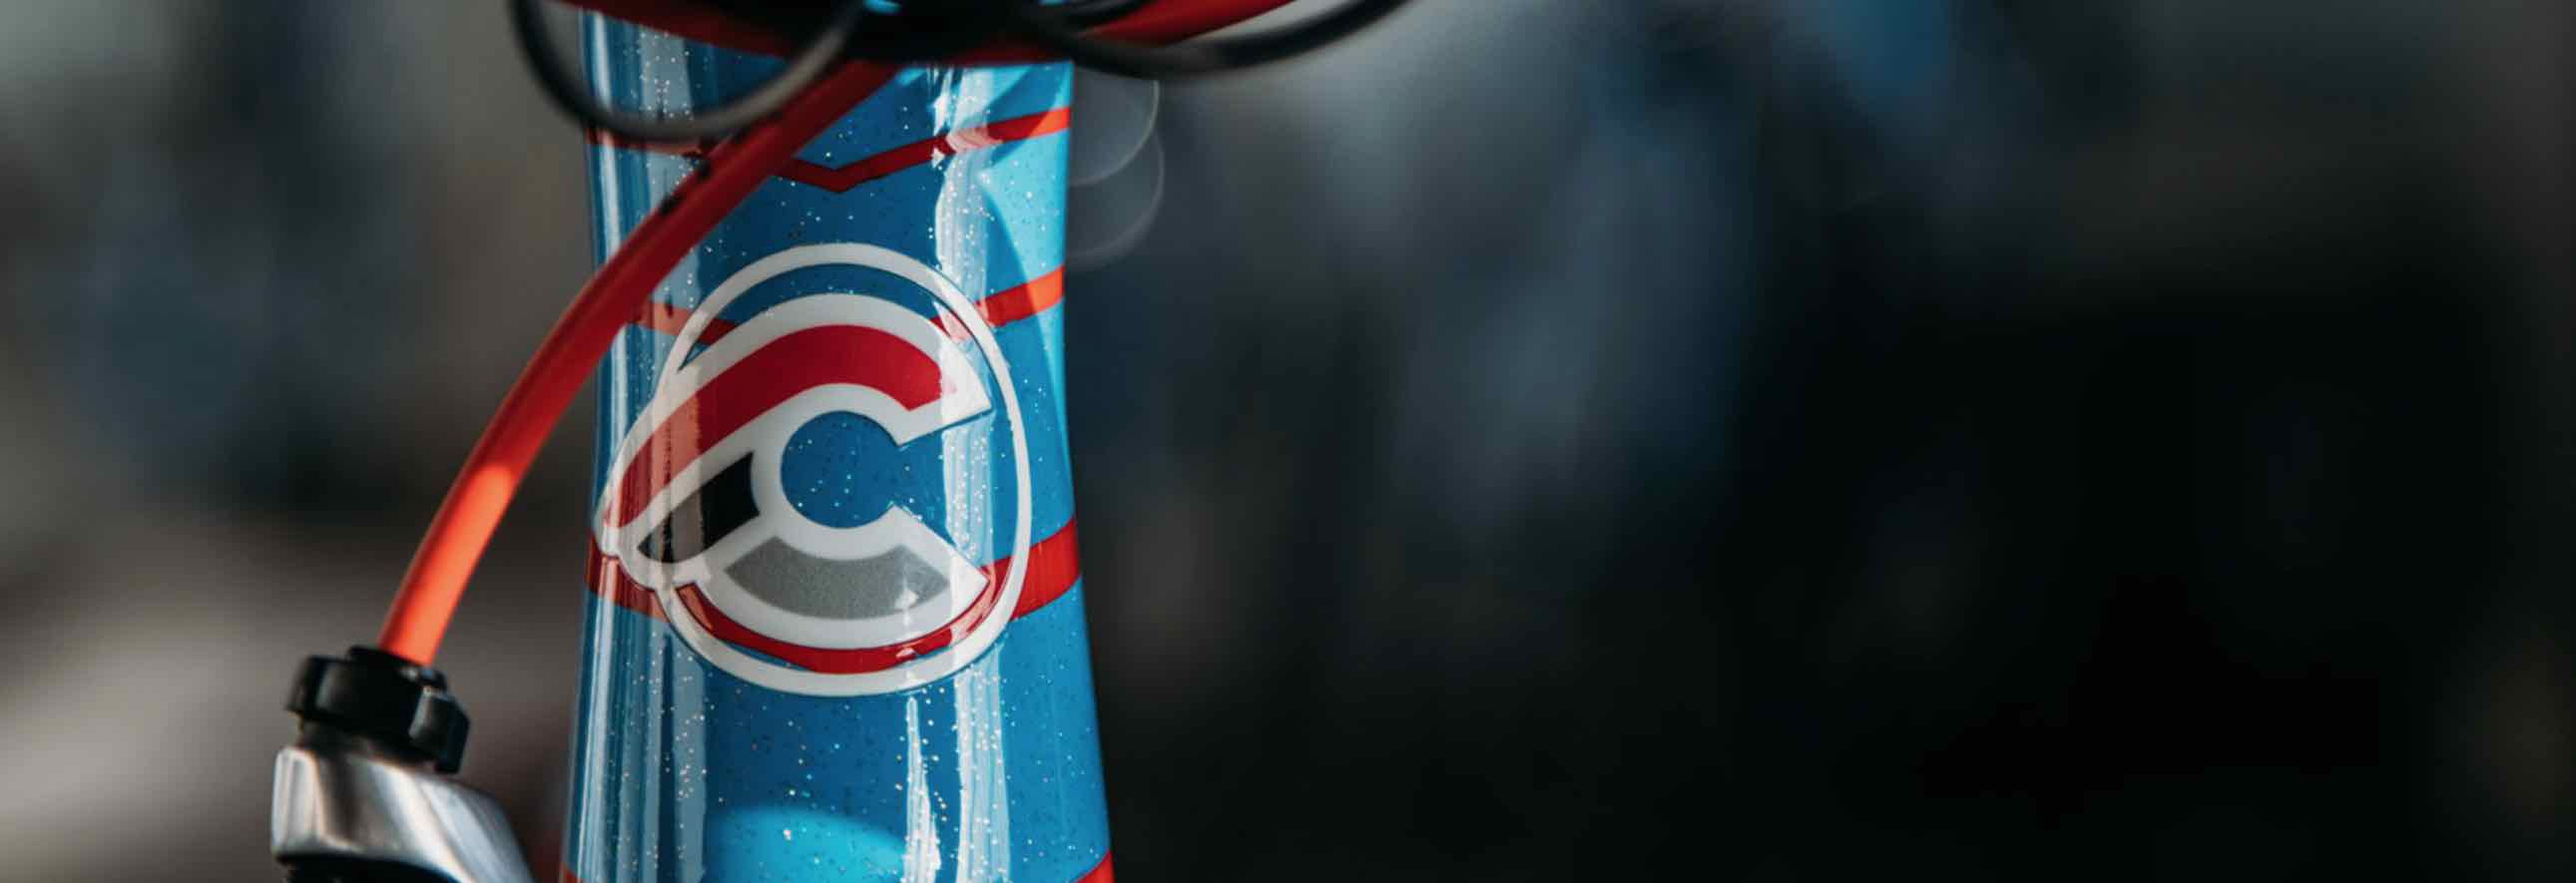
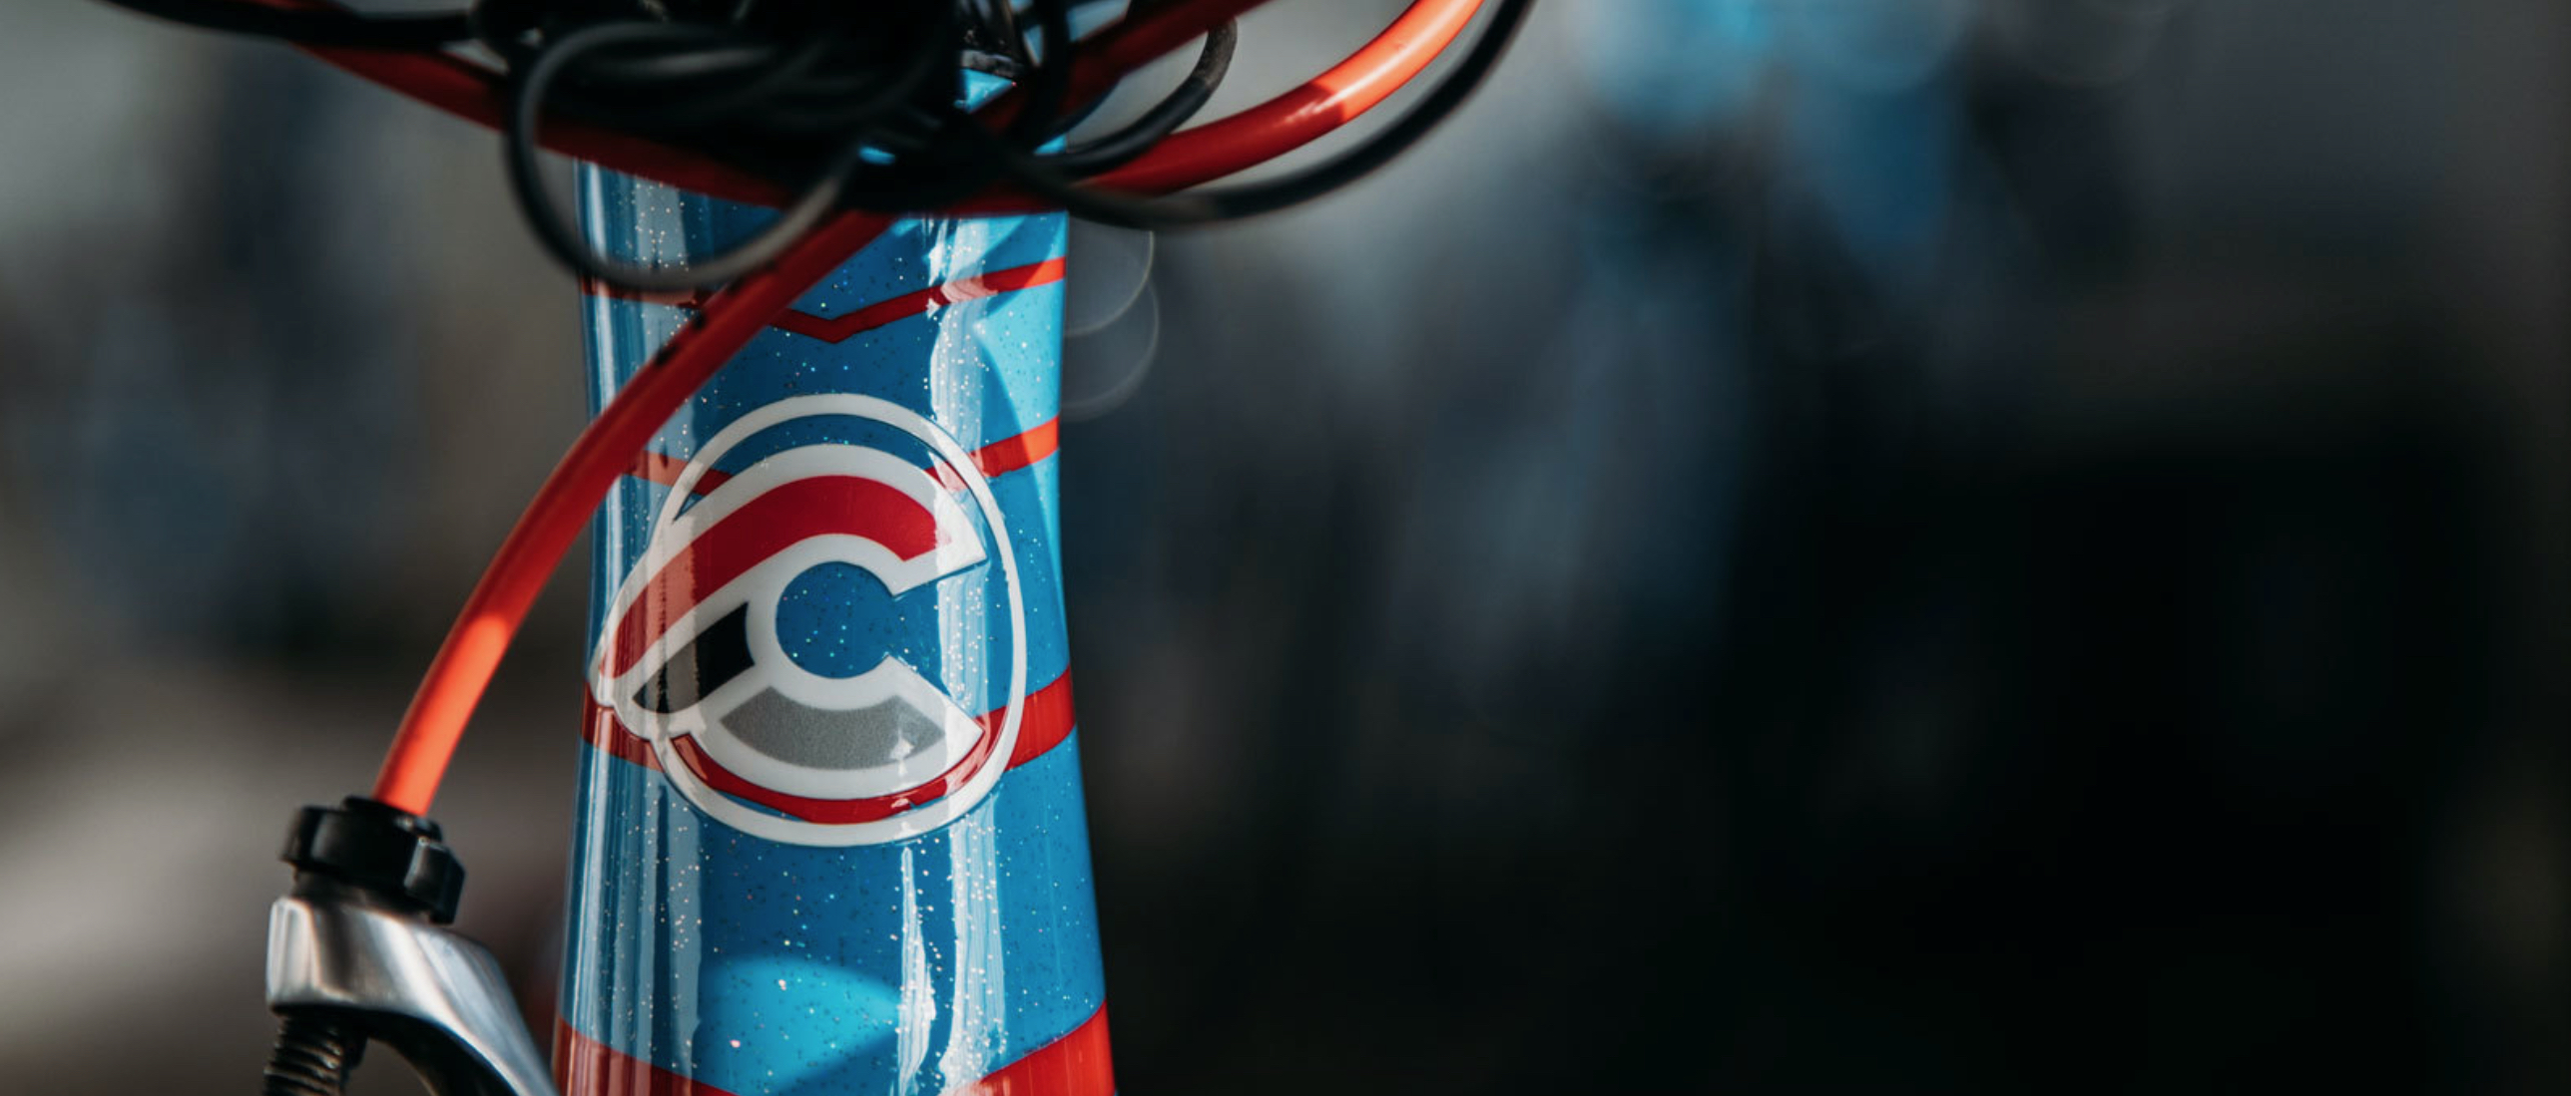
Landing Page Header is Finished

diff --git a/public/css/nav.css b/public/css/nav.css
@@ -1,91 +1,53 @@
 body {
-    font-family: 'Public Sans', sans-serif;
-    font-weight: 600;
+    font-family: 'Roboto', sans-serif;
+    font-weight: 400;
+    color: black;
 
 }
-/* TOP NAVBAR */
-#topNavbar {
-    height: 32px;
-    padding-left: 50px;
-    padding-right: 0;
-    background-color: black;
-    padding-top: 0;
-    padding-bottom: 0;
-}
-
-#cDivTop i {
-    margin-right: 11px;;
-}
-
-
-
-#cDivTop li {
-    height: 32px;
-    width: 150px;  
-    text-align: center;
-    padding-top: 2px;
- }
-
-#cDivTop a {
-    text-decoration: none;
-    color: white;
-    font-size: 10px;
-    letter-spacing: .5px;
-    height: 32px;  
-    text-transform: uppercase;
-}
-
-#handmadeId {
-    color: white;
-    font-size: 16px;
-    text-decoration: none;
-    font-weight: 200;
-}
-
-#divPadding {
-   height: 32px;
-}
-
-#findRetailer {
-    padding-right: 10px;
-    /* background-color: #5BAE4B; */
-    /* border-right: 2px solid black; */
-    /* border-left: px solid black;
-    border-right: 4px solid black; */
-    margin-right: 2.5px;
-  
- }
 
 
 .sign-in {
     background-color: #CF4747;
-   
-}
+ 
+} 
 
 
 /* MAIN NAVBAR */
-#brandIcon {
-    width: 150px;
-   
-}
 
-.navbar-brand {
-    
+#brandIcon {
+   width: 190px;
+   margin: px;
+   margin-top: -10px;
 }
 
 #mainNavbar {
     background-color: white;
-    padding-left: 23px;
-    padding-right: 50px;
+    padding-left: 75px;
+    padding-right: 75px;
     padding-top: 0;
     padding-bottom: 0;
-}
-
-#mainNavbar a {
+    text-transform: uppercase;
+    height: 76px;
     color: black;
 }
 
-#navbar .nav-item {
+#mainNavbar li {
+    height: 76px;
+}
+
+
+#mainNavbar a {
+    color: black;
+    align-items: center;
+    padding-top: 15px;
+}
+
+#mainNavbar .nav-link {
+    margin-left: 20px;
+    margin-right: 20px;
+}
+
+.navbarLinks .nav-item {
     font-size: 11.5px;
     letter-spacing: 1px;
     padding: 1.3em;
@@ -95,7 +57,64 @@ body {
 
 .icons-right li{
     padding: 1.1em;
+    margin: 0;
 }
+
+#bikes {
+    border-bottom: 3px solid #F54343;
+}
+
+#componenets {
+    border-bottom: 3px solid #00CA0F;
+}
+
+#apparel {
+    border-bottom: 3px solid #EBF54A;
+}
+
+#insideCinelli  {
+    border-bottom: 3px solid black;
+}
+
+/* #bikesButton {
+    margin-right: 50px;
+    margin-left: 200px;
+}
+
+#insideCinelli {
+    margin-left: 50px;
+    margin-right: 25px;
+} */
+
+.icons-right {
+    display: inline-block;
+   padding-top: 15px;
+}
+
+@media (max-width: 1250px) {
+    #insideCinelli {
+        margin-left: 0px;
+        margin-right: -25px;
+    }
+}
+
+@media (max-width: 1250px) {
+    #bikesButton {
+        margin-left: 50px;
+        margin-right: 0px;
+    }
+}
+
+@media (max-width: 1000px) {
+    .icons-right {
+        margin-left: -50px;
+        margin-right: 0px;
+        padding-left: -100px;
+        
+    }
+}
+
+
 
 /* DROPDOWN MENU */
 

diff --git a/public/css/mainLanding.css b/public/css/mainLanding.css
@@ -1,5 +1,57 @@
 body {
-    background-color: lightblue;
 
+}
+
+#headerImage {
+    position: relative;
+}
+
+#headerImage img {
+    width: 100%;
+    position: absolute;
+    z-index: -2;
+}
+
+#headerText {
+    margin-top: 300px;
+    color: white;
+    text-transform: uppercase;
     
+}
+
+#headerText h1 {
+    line-height: 50px;
+    font-size: 40px;
+    font-weight: 300;
+    width: 400px;
+    margin-bottom: 20px;
+    
+}
+
+.buttonMain {
+    
+    font-size: 0;
+}
+
+#shopNow {
+    background-color: #AE7825;
+    font-size: 14px;
+    border: none;
+    padding: 20px;
+    text-transform: uppercase;
+    color: white;
+    padding-left: 40px;
+    padding-right: 40px;
+}
+
+#learnMore {
+    background-color: #7486CB;
+    font-size: 14px;
+    border: none;
+    padding: 20px;
+    text-transform: uppercase;
+    color: white;
+    box-shadow: 10px 5px 5px black;
+    padding-left: 40px;
+    padding-right: 40px;
 }

diff --git a/public/scripts/navbar.js b/public/scripts/navbar.js
@@ -4,7 +4,7 @@
 //      // BIKES HOVER
 $( "#bikesButton").hover(
     function() {
-        $("#dropdownMenu").css( "opacity", "1" ).hover(
+        $("#dropdownMenu").css( {"opacity": "1"} ).hover(
             function (){
                 $("#dropdownMenu").css( "opacity", "1" )
             }, function() {
